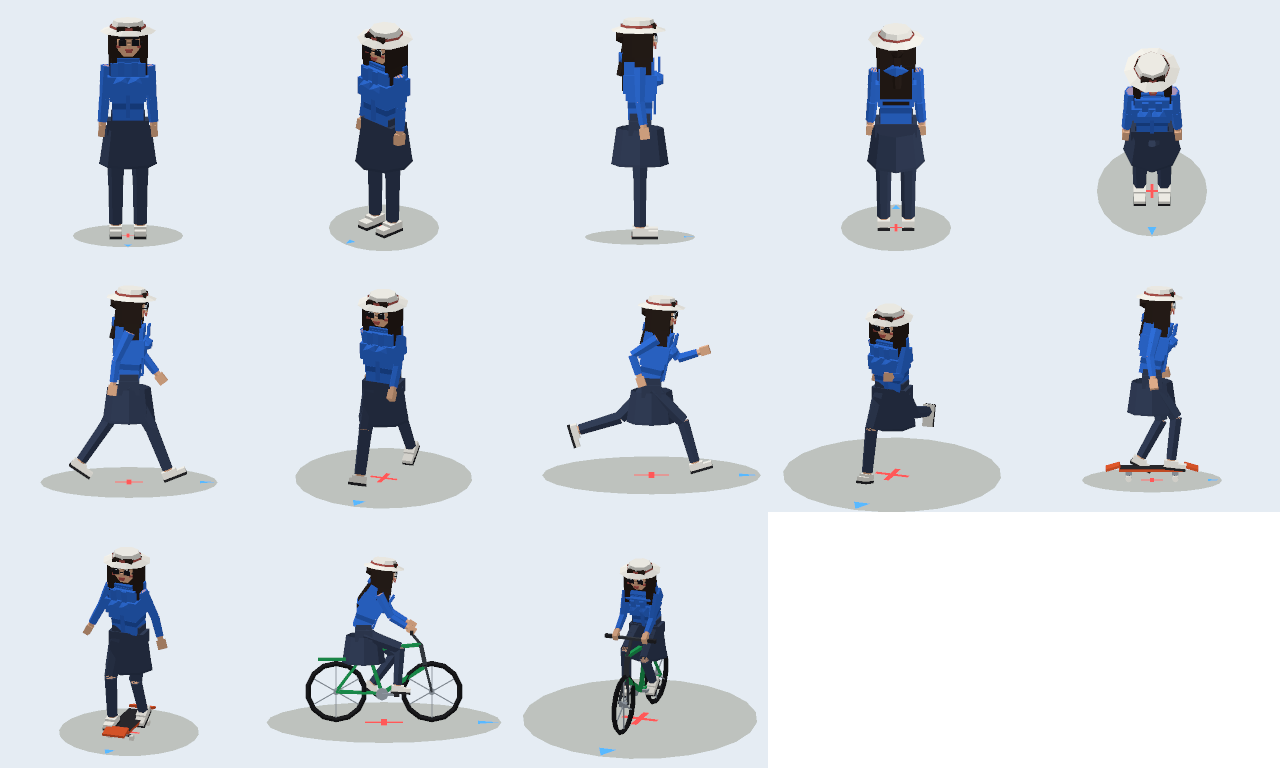
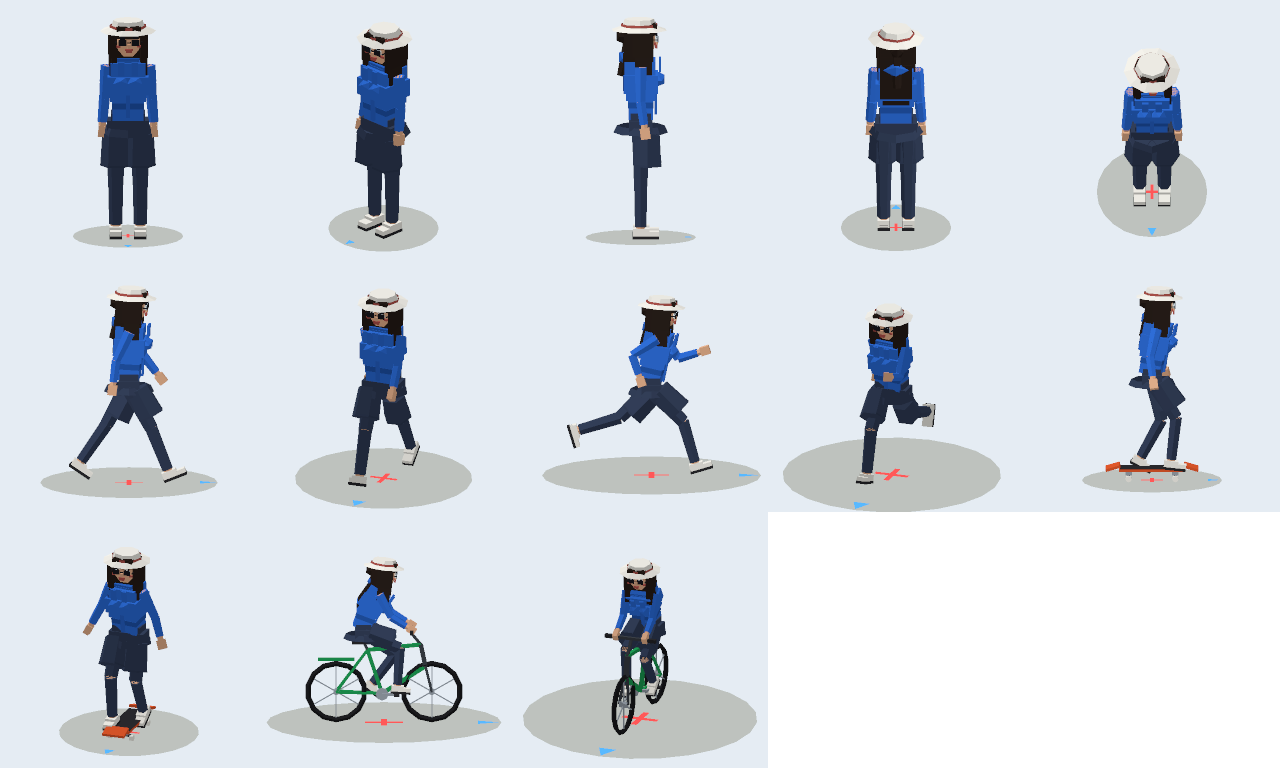
fix(hero): rok tidak menembus bangku saat duduk
Seluruh rok dipasang di tulang hips, jadi saat klip anim_Sit menekuk paha 88
derajat ke depan rok tetap menggantung lurus mengikuti panggul dan menembus
dudukan bangku (terukur 0.26 m di bawah permukaan dudukan y=0.43).

Dipakai pola yang sama dengan warga wanita di defs/creatures.ts: rok dipecah
jadi yoke kaku di hips (pinggang) + dua panel bawah yang di-skin ke upperLeg_L/R,
sehingga panel ikut mendatar di atas paha saat duduk dan tetap mengayun saat jalan.

Sumbu panel digeser ke depan 0.055 m (SKIRT_FORWARD): saat duduk, sisi BELAKANG
paha menjadi sisi BAWAH yang menempel bangku, jadi panel simetris ber-radius
0.14 m masih menggantung 0.08 m di bawah dudukan. Dengan pergeseran ini sisi
belakang serapat celana pendek sementara kembang rok tetap ada di depan.

Terukur pada pose anim_Sit (dudukan prop_bench_02 di y 0.43):
  rok           0.26 m menembus -> 0.010 m
  celana pendek 0.014 m (pembanding, tidak diubah)

diff --git a/web/tools/assets/defs/humanoid.ts b/web/tools/assets/defs/humanoid.ts
@@ -426,6 +426,9 @@ function hips(b: MeshBuilder, f: Figure): void {
   b.box([f.hipX * 2, 0.17, f.hipZ * 2], { at: [0, 0.94, 0], color: shade(1), bone: hipBone });
 }
 
+/** Geser sumbu panel rok ke depan (m) supaya sisi bawahnya tidak menembus bangku saat duduk. */
+const SKIRT_FORWARD = 0.055;
+
 function pantsParts(gender: Gender): Clothing[] {
   const f = FIGURES[gender];
   // Pinggang celana selalu di dalam badan baju (cek tembus di buildCustomCharacter).
@@ -450,17 +453,44 @@ function pantsParts(gender: Gender): Clothing[] {
     }
   }
   if (gender === 'f') {
-    // Rok A-line: kerucut terbalik dari panggul ke atas lutut, dipasang di tulang hips.
-    ketiga.frustum({ radiusBottom: 0.235, radiusTop: f.hipX + 0.02, height: 0.3, segments: 8, capTop: false }, {
-      at: [0, 0.6, 0],
+    // Rok A-line selutut, DUA bagian (pola yang sama dipakai warga wanita di defs/creatures.ts):
+    //
+    //   1. Yoke kaku di tulang hips: bagian pinggang yang memang tidak boleh ikut kaki.
+    //   2. Dua panel bawah yang di-skin ke tulang upperLeg_L/R.
+    //
+    // Versi lama memasang SELURUH rok di tulang hips, jadi saat klip anim_Sit menekuk paha 88
+    // derajat ke depan, rok tetap menggantung lurus ke bawah mengikuti panggul dan menembus
+    // dudukan bangku. Dengan panel bawah menempel di paha, rok ikut mendatar di atas paha saat
+    // duduk dan tetap mengayun wajar saat jalan.
+    const hipBone = boneIndex('hips');
+    // Yoke 0.86 -> 0.92: BERHENTI di sendi panggul (tulang upperLeg rest y = 0.92). Yoke kaku yang
+    // menjulur di bawah sendi ini tidak punya tulang yang mengangkatnya saat duduk, jadi ia turun
+    // bersama panggul dan menembus dudukan bangku.
+    ketiga.frustum({ radiusBottom: f.hipX + 0.05, radiusTop: f.hipX + 0.022, height: 0.06, segments: 8, capTop: false }, {
+      at: [0, 0.86, 0],
       color: shade(1),
-      bone: boneIndex('hips'),
+      bone: hipBone,
     });
-    ketiga.frustum({ radiusBottom: 0.238, radiusTop: 0.228, height: 0.035, segments: 8, capTop: false, capBottom: false }, {
-      at: [0, 0.6, 0],
-      color: shade(0.86),
-      bone: boneIndex('hips'),
-    });
+    for (const side of ['L', 'R'] as const) {
+      const sx = side === 'R' ? 1 : -1;
+      // Panel paha 0.60 -> 0.87: naik sampai menyentuh yoke supaya tidak ada celah di pangkal.
+      // Saat duduk paha berputar ~90 derajat ke depan, jadi sisi BELAKANG paha (+Z di rest)
+      // menjadi sisi BAWAH yang menempel di bangku. Karena itu sumbu panel digeser ke depan
+      // (SKIRT_FORWARD): sisi belakangnya hanya ~0.08 m dari sumbu paha (setara celana pendek),
+      // sementara kembang rok tetap ada di depan dan samping. Panel yang simetris dengan radius
+      // 0.14 m menggantung 0.08 m di bawah dudukan.
+      ketiga.frustum({ radiusBottom: 0.128, radiusTop: 0.112, height: 0.27, segments: 6 }, {
+        at: [sx * 0.098, 0.6, -SKIRT_FORWARD],
+        color: shade(1),
+        bone: boneIndex(`upperLeg_${side}`),
+      });
+      // Pelipit bawah: pita tipis lebih gelap, menegaskan hem rok.
+      ketiga.frustum({ radiusBottom: 0.131, radiusTop: 0.124, height: 0.03, segments: 6, capTop: false, capBottom: false }, {
+        at: [sx * 0.098, 0.6, -SKIRT_FORWARD],
+        color: shade(0.86),
+        bone: boneIndex(`upperLeg_${side}`),
+      });
+    }
   }
 
   return [
